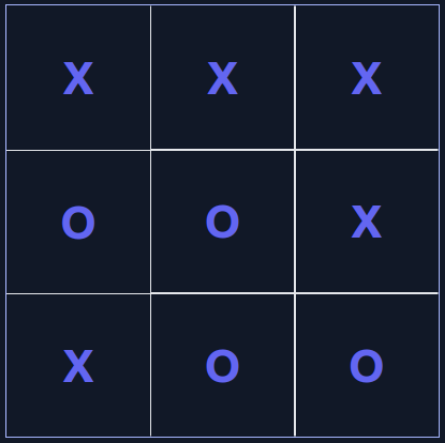
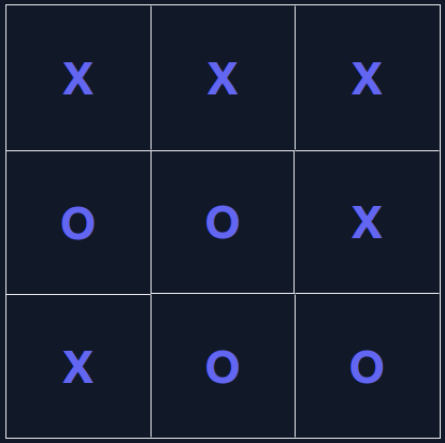
fix: change image

diff --git a/src/components/atoms/TicTacToe.vue b/src/components/atoms/TicTacToe.vue
@@ -1,16 +1,16 @@
 <template>
-  <div class="w-[450px] h-[450px] text-indigo-500 grid grid-cols-3 grid-rows-3 pt-4">
-    <div class="flex justify-center items-center text-5xl font-bold">X</div>
-    <div class="border border-t-transparent flex justify-center items-center text-5xl font-bold">X</div>
-    <div class="border border-r-transparent border-t-transparent flex justify-center items-center text-5xl font-bold">
+  <div class="w-[450px] h-[450px] text-indigo-500 grid grid-cols-3 grid-rows-3 pt-4 font-bold text-5xl">
+    <div class="flex justify-center items-center">X</div>
+    <div class="border border-y-transparent border-r-transparent flex justify-center items-center">X</div>
+    <div class="border border-r-transparent border-y-transparent flex justify-center items-center">
       X
     </div>
-    <div class="border-t flex justify-center items-center text-5xl font-bold">O</div>
-    <div class="border flex justify-center items-center text-5xl font-bold">O</div>
-    <div class="border border-r-transparent flex justify-center items-center text-5xl font-bold">X</div>
-    <div class="border-t flex justify-center items-center text-5xl font-bold">X</div>
-    <div class="border border-b-transparent flex justify-center items-center text-5xl font-bold">O</div>
-    <div class="border border-r-transparent border-b-transparent flex justify-center items-center text-5xl font-bold">
+    <div class="border-t flex justify-center items-center">O</div>
+    <div class="border flex justify-center items-center">O</div>
+    <div class="border border-x-transparent flex justify-center items-center">X</div>
+    <div class="border-t flex justify-center items-center">X</div>
+    <div class="border border-y-transparent border-r-transparent flex justify-center items-center">O</div>
+    <div class="border border-r-transparent border-y-transparent flex justify-center items-center">
       O
     </div>
   </div>

diff --git a/src/components/atoms/AboutUs.vue b/src/components/atoms/AboutUs.vue
@@ -5,7 +5,7 @@
   </div>
     <div class="text-white text-center mx-40 px-20 mt-20 py-10 font-silk text-2xl animate-fade-right">
       <span>Jesteśmy wielbicielami klasycznych gier, które towarzyszą nam praktycznie od dzieciństwa. Teraz postanowiliśmy
-        wykorzystać nasze programistyczne umiejętności do stworzenia wersji online! Mamy nadzieję, że gierki dadzą Wam co
+        wykorzystać nasze programistyczne umiejętności do stworzenia własnej wersji online! Mamy nadzieję, że gierki dadzą Wam co
         najmniej tyle frajdy, co nam tworzenie ich.
       </span>
       <p >Enjoy!</p>
